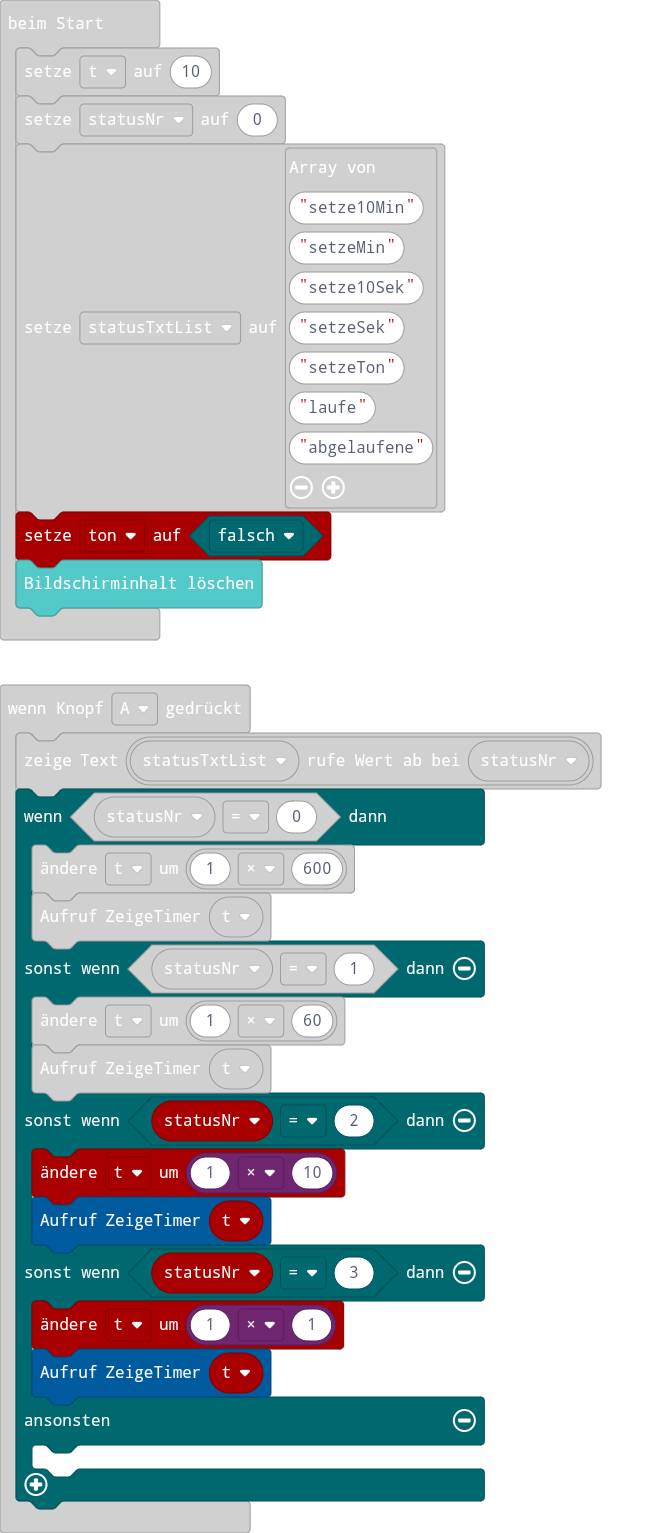
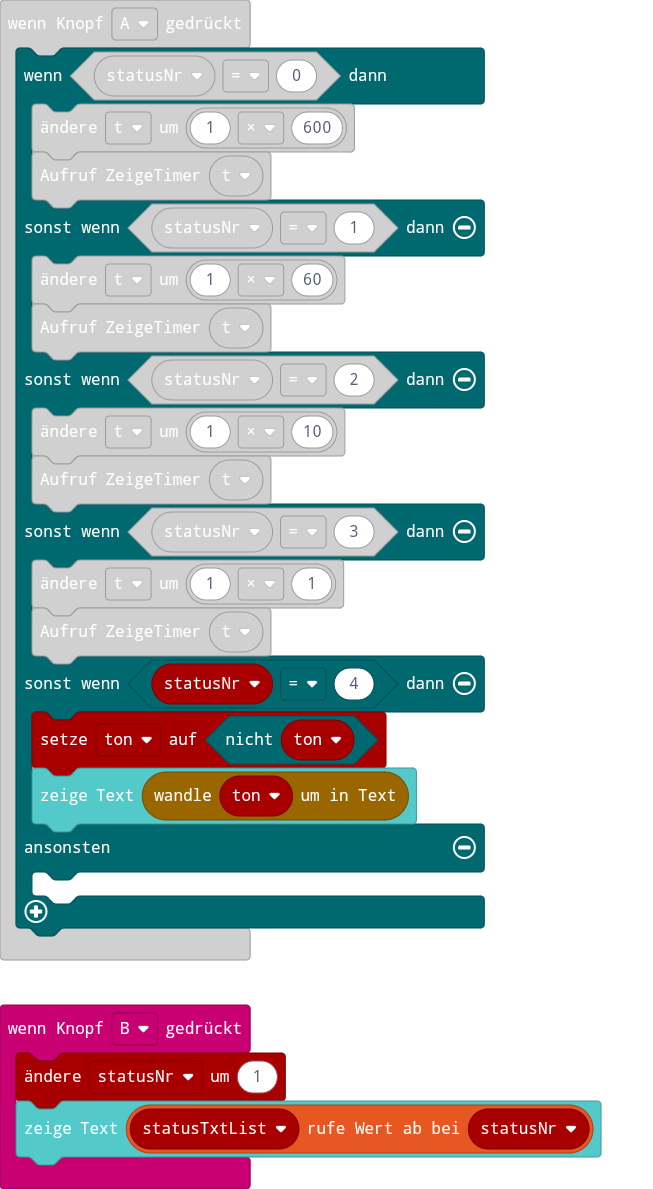
wip 3

diff --git a/main.ts b/main.ts
@@ -1,5 +1,4 @@
 input.onButtonPressed(Button.A, function () {
-    basic.showString("" + (statusTxtList[statusNr]))
     if (statusNr == 0) {
         t += 1 * 600
         ZeigeTimer(t)
@@ -12,20 +11,28 @@ input.onButtonPressed(Button.A, function () {
     } else if (statusNr == 3) {
         t += 1 * 1
         ZeigeTimer(t)
+    } else if (statusNr == 4) {
+        ton = !(ton)
+        basic.showString(convertToText(ton))
     } else {
     	
     }
 })
+input.onButtonPressed(Button.B, function () {
+    statusNr += 1
+    basic.showString("" + (statusTxtList[statusNr]))
+})
 function ZeigeTimer (t0: number) {
     basic.showString(convertToText(t0))
 }
+let ton = false
 let statusTxtList: string[] = []
 let statusNr = 0
 let t = 0
 t = 10
 statusNr = 0
 statusTxtList = ["setze10Min", "setzeMin", "setze10Sek", "setzeSek", "setzeTon", "laufe", "abgelaufene"]
-let ton = false
+ton = false
 basic.clearScreen()
 basic.forever(function () {
 	
